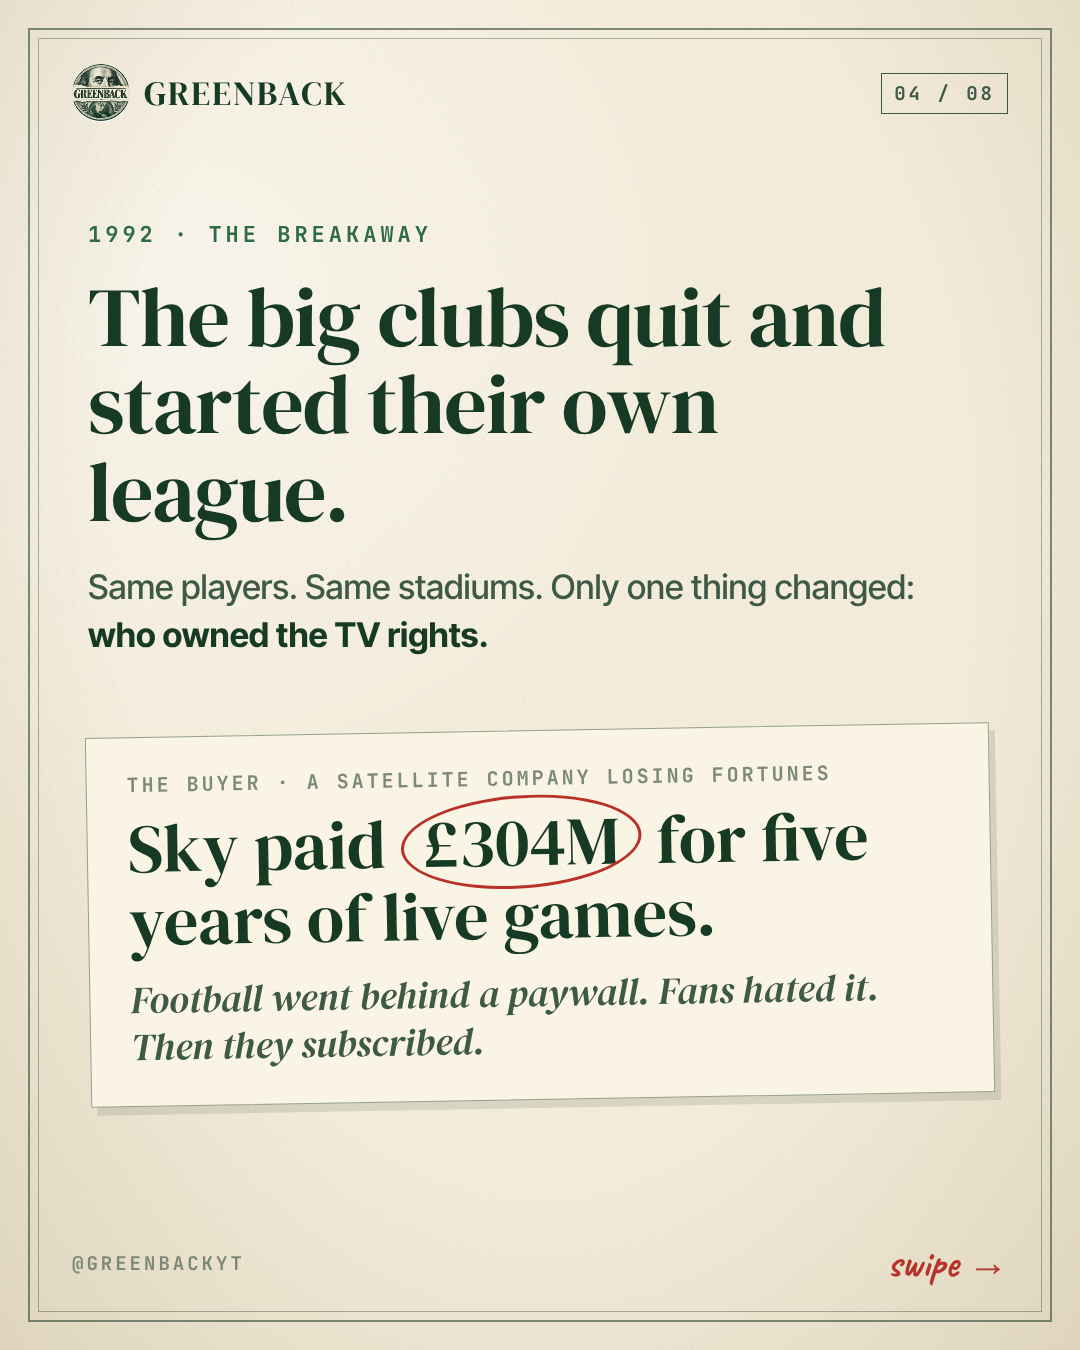
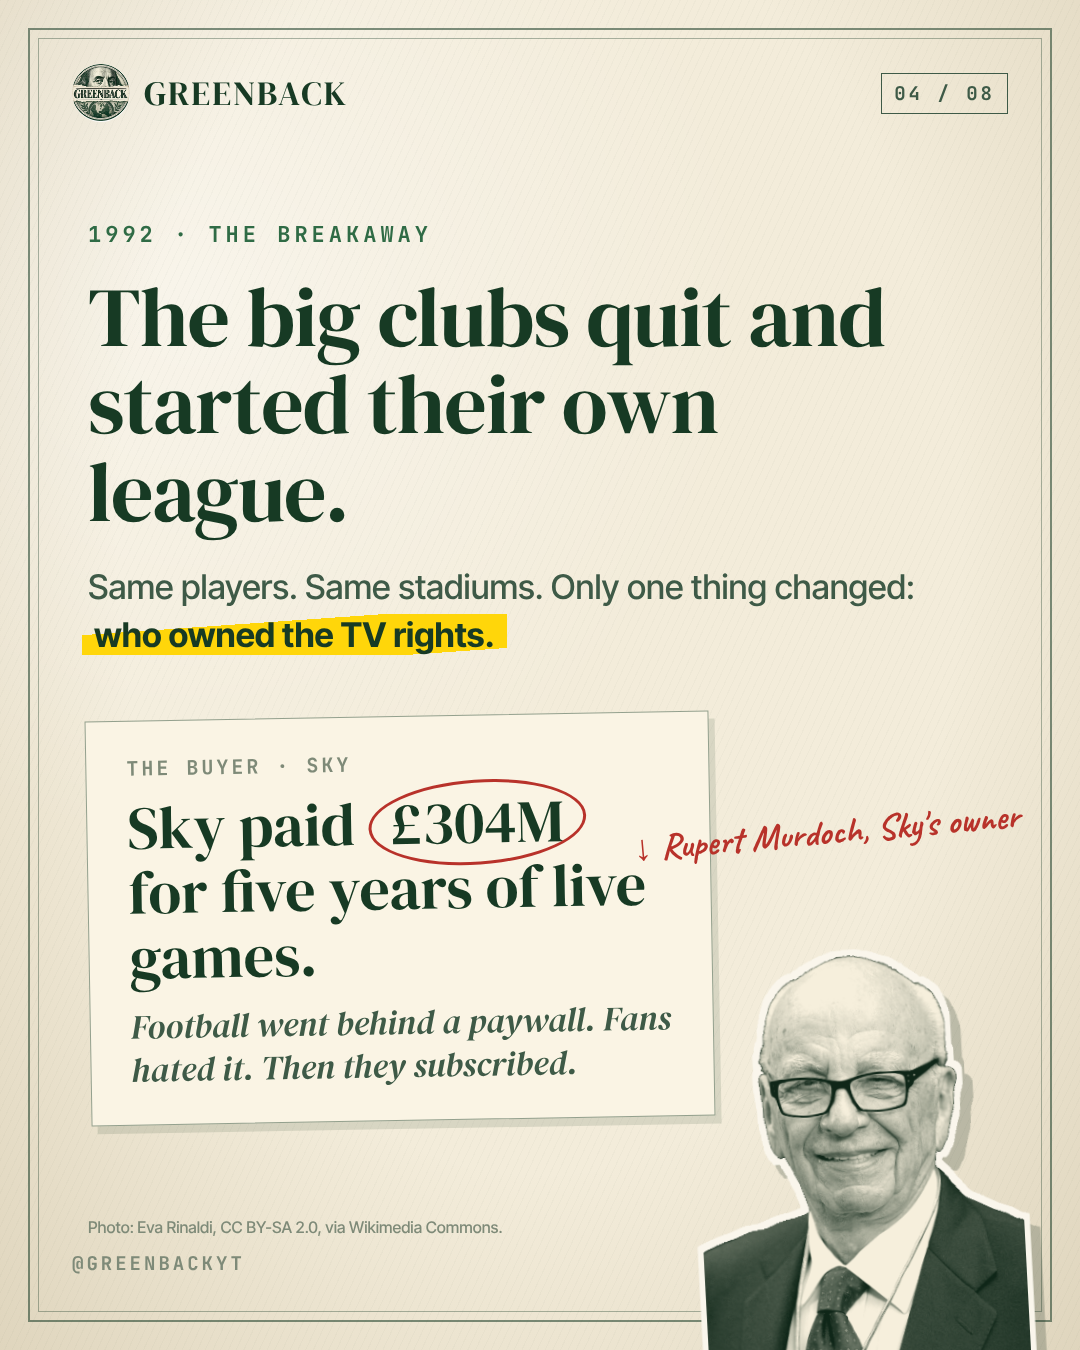
Greenback carousel 01: real photo cutouts, yellow/orange word highlights
Abramovich (slide 2) and Murdoch (slide 4) as duotone paper cutouts with
credits. Yellow highlighter and amber (#E8650A) accents on key words.

Claude-Session: https://claude.ai/code/session_013DisWTCKT6cGxKX9bxVydS

Changed region(s): [[0.0917, 0.5289, 0.9778, 1.0], [0.0611, 0.4356, 0.4889, 0.4978], [0.0917, 0.9022, 0.4583, 0.9333]]

diff --git a/premier-league-economics/instagram/carousel_01/carousel.html b/premier-league-economics/instagram/carousel_01/carousel.html
@@ -9,7 +9,7 @@
 @font-face{font-family:IT;src:url(fonts/inter-tight-latin-500-normal.woff2);font-weight:500}
 @font-face{font-family:MONO;src:url(fonts/jetbrains-mono-latin-700-normal.woff2);font-weight:700}
 @font-face{font-family:PEN;src:url(fonts/caveat-latin-700-normal.woff2);font-weight:700}
-:root{--parch:#F3ECDA;--parch2:#E8DFC6;--ink:#173A24;--ink2:#3E5A47;--mute:#7E8A78;--green:#2F6B45;
+:root{--yellow:#FFD60A;--orange:#E8650A;--parch:#F3ECDA;--parch2:#E8DFC6;--ink:#173A24;--ink2:#3E5A47;--mute:#7E8A78;--green:#2F6B45;
   --mint:#E1EED4;--red:#B8322A;--cream:#FAF4E4}
 *{box-sizing:border-box;margin:0;padding:0}
 body{background:#555;color:var(--ink)}
@@ -55,6 +55,10 @@ p{font:500 34px/1.42 IT;color:var(--ink2)}
 .circ{position:relative;display:inline-block;margin:0 22px}
 .circ::after{content:"";position:absolute;inset:-10px -22px;border:3.5px solid var(--red);border-radius:50%;transform:rotate(-3deg)}
 .under{background:linear-gradient(transparent 78%,rgba(184,50,42,.85) 78%,rgba(184,50,42,.85) 88%,transparent 88%)}
+.hy{background:linear-gradient(176deg,transparent 30%,var(--yellow) 30%,var(--yellow) 90%,transparent 90%);color:var(--ink);padding:0 12px;margin:0 -6px;box-decoration-break:clone;-webkit-box-decoration-break:clone}
+.or{color:var(--orange)}
+.cut{position:absolute!important;filter:drop-shadow(10px 14px 0 rgba(15,38,24,.22));z-index:3}
+.cap{position:absolute!important;z-index:4;font:700 36px/1 PEN;color:var(--red);transform:rotate(-5deg)}
 .note{background:var(--cream);border:1.5px solid rgba(23,58,36,.45);box-shadow:6px 8px 0 rgba(23,58,36,.12);padding:34px 40px}
 .label{font:700 20px MONO;letter-spacing:3px;color:var(--mute)}
 .num{font:400 118px/1 DS;letter-spacing:-2px}
@@ -71,9 +75,9 @@ p{font:500 34px/1.42 IT;color:var(--ink2)}
   <img src="greenback_logo.jpg" style="position:absolute;right:-170px;top:250px;width:620px;opacity:.07;border-radius:50%;filter:grayscale(1) brightness(2)">
   <div style="padding-top:290px">
     <div class="kicker">Follow the money · Premier League</div>
-    <h1 style="margin-top:30px">Most Premier League clubs <em class="under">lose money.</em></h1>
+    <h1 style="margin-top:30px">Most Premier League clubs <em><span class="hy">lose money.</span></em></h1>
     <div class="rule"><i></i></div>
-    <div style="font:400 64px/1.12 DS;font-style:italic;color:#e9e2cc;max-width:880px">So why is it the most valuable football league on Earth?</div>
+    <div style="font:400 64px/1.12 DS;font-style:italic;color:#e9e2cc;max-width:880px">So why is it the <span class="or">most valuable</span> football league on Earth?</div>
   </div>
   <div class="foot"><span>@GREENBACKYT</span><span class="swipe">follow the trail →</span></div>
 </section>
@@ -83,17 +87,18 @@ p{font:500 34px/1.42 IT;color:var(--ink2)}
   <div class="frame"></div>
   <div class="top"><div class="brand"><img src="greenback_logo.jpg">GREENBACK</div><div class="tag">02 / 08</div></div>
   <div style="padding-top:220px">
+    <img class="cut" src="cutouts/abramovich.png" style="right:56px;top:190px;width:320px;transform:rotate(3deg)"><div class="cap" style="right:90px;top:580px">Roman Abramovich</div>
     <div class="kicker">Exhibit A · March 2022</div>
-    <h2 style="margin-top:24px">The UK government froze Chelsea FC.</h2>
-    <p style="margin-top:28px;max-width:870px">Owner Roman Abramovich was sanctioned after Russia invaded Ukraine. No ticket sales, no shirt sales, no transfers. The club had to be sold, fast.</p>
+    <h2 style="margin-top:24px;max-width:560px;font-size:72px">The UK government <span class="hy">froze</span> Chelsea FC.</h2>
+    <p style="margin-top:24px;max-width:540px;font-size:31px">Its owner was sanctioned after Russia invaded Ukraine. No tickets, no shirts, no transfers. It had to be sold, fast.</p>
   </div>
-  <div style="display:flex;align-items:center;gap:30px;margin-top:70px">
+  <div style="display:flex;align-items:center;gap:30px;margin-top:56px">
     <div class="note" style="flex:1;text-align:center"><div class="label">BOUGHT · 2003</div><div class="num" style="margin-top:10px">£140M</div></div>
     <div style="font:400 80px DS">→</div>
     <div class="note" style="flex:1;text-align:center;background:var(--ink);color:var(--cream)"><div class="label" style="color:#9fd3ad">SOLD · 2022</div><div class="num" style="margin-top:10px">£2.5B</div></div>
   </div>
-  <div class="pen" style="margin:44px 0 0 560px;transform:rotate(-4deg)"><span class="circ">×18</span> &nbsp;in a forced sale!</div>
-  <div class="src">Sources: BBC, Reuters (May 2022). £2.5B purchase price inside a £4.25B total deal.</div>
+  <div class="pen" style="margin:30px 0 0 500px;transform:rotate(-4deg)"><span class="circ" style="color:var(--orange)">×18</span> &nbsp;in a forced sale!</div>
+  <div class="src">Sources: BBC, Reuters (May 2022). £2.5B purchase price inside a £4.25B total deal. Photo: Marina Lystseva, GFDL 1.2, via Wikimedia Commons.</div>
   <div class="foot"><span>@GREENBACKYT</span><span class="swipe">swipe →</span></div>
 </section>
 
@@ -103,13 +108,13 @@ p{font:500 34px/1.42 IT;color:var(--ink2)}
   <div class="top"><div class="brand"><img src="greenback_logo.jpg">GREENBACK</div><div class="tag">03 / 08</div></div>
   <div style="padding-top:220px">
     <div class="kicker">Rewind · the 1980s</div>
-    <h2 style="margin-top:24px">English football was nearly broke.</h2>
+    <h2 style="margin-top:24px">English football was <span class="hy">nearly broke.</span></h2>
     <p style="margin-top:28px;max-width:880px">Crowds were falling and stadiums were crumbling. After the Hillsborough disaster in 1989, every top-flight ground had to become all-seater. The clubs couldn't pay for it.</p>
   </div>
   <div class="torn" style="margin-top:80px">
     <div class="label" style="padding-left:88px">TV MONEY FOR THE ENTIRE TOP DIVISION · ITV, 1988</div>
     <div style="display:flex;align-items:baseline;gap:30px;padding-left:88px;margin-top:8px">
-      <div class="num">£11M</div><div style="font:500 30px IT;color:var(--ink2)">a season, shared by<br>every club.</div>
+      <div class="num" style="color:var(--orange)">£11M</div><div style="font:500 30px IT;color:var(--ink2)">a season, shared by<br>every club.</div>
     </div>
   </div>
   <div class="pen" style="margin-top:40px;color:#F08A7E;transform:rotate(-2deg)">Today one mid-table club gets ~10× that on its own.</div>
@@ -124,13 +129,16 @@ p{font:500 34px/1.42 IT;color:var(--ink2)}
   <div style="padding-top:220px">
     <div class="kicker">1992 · The breakaway</div>
     <h2 style="margin-top:24px">The big clubs quit and started their own league.</h2>
-    <p style="margin-top:28px;max-width:880px">Same players. Same stadiums. Only one thing changed: <b style="color:var(--ink)">who owned the TV rights.</b></p>
+    <p style="margin-top:28px;max-width:880px">Same players. Same stadiums. Only one thing changed: <b class="hy">who owned the TV rights.</b></p>
   </div>
-  <div class="note" style="margin-top:70px;transform:rotate(-1deg)">
-    <div class="label">THE BUYER · A SATELLITE COMPANY LOSING FORTUNES</div>
-    <div style="font:400 68px/1.08 DS;margin-top:14px">Sky paid <span class="circ">£304M</span> for five years of live games.</div>
-    <div style="font:italic 400 38px/1.25 DS;color:var(--ink2);margin-top:18px">Football went behind a paywall. Fans hated it. Then they subscribed.</div>
+  <div class="note" style="margin-top:56px;margin-right:280px;transform:rotate(-1deg)">
+    <div class="label">THE BUYER · SKY</div>
+    <div style="font:400 60px/1.08 DS;margin-top:14px">Sky paid <span class="circ">£304M</span> for five years of live games.</div>
+    <div style="font:italic 400 34px/1.25 DS;color:var(--ink2);margin-top:16px">Football went behind a paywall. Fans hated it. Then they subscribed.</div>
   </div>
+  <img class="cut" src="cutouts/murdoch.png" style="right:40px;bottom:-40px;width:360px;transform:rotate(-3deg)">
+  <div class="cap" style="right:60px;bottom:500px">↓ Rupert Murdoch, Sky's owner</div>
+  <div class="src" style="right:420px;bottom:112px;font-size:16px">Photo: Eva Rinaldi, CC BY-SA 2.0, via Wikimedia Commons.</div>
   <div class="foot"><span>@GREENBACKYT</span><span class="swipe">swipe →</span></div>
 </section>
 
@@ -144,7 +152,7 @@ p{font:500 34px/1.42 IT;color:var(--ink2)}
   </div>
   <div style="position:absolute;left:88px;right:88px;bottom:200px;height:560px;display:flex;align-items:flex-end;gap:34px;border-bottom:2px solid var(--ink)">
     <div style="width:220px;text-align:center"><div style="font:400 46px DS;margin-bottom:12px">£304M</div><div style="height:30px;background:var(--green)"></div></div>
-    <div style="width:220px;text-align:center"><div style="font:400 46px DS;margin-bottom:12px">£6.7B</div><div style="height:430px;background:var(--ink);position:relative"><div class="pen" style="position:absolute;left:0;right:0;top:20px;color:#F08A7E;font-size:64px">×22</div></div></div>
+    <div style="width:220px;text-align:center"><div style="font:400 46px DS;margin-bottom:12px">£6.7B</div><div style="height:430px;background:var(--ink);position:relative"><div class="pen" style="position:absolute;left:0;right:0;top:20px;color:var(--yellow);font-size:64px">×22</div></div></div>
     <div style="flex:1;padding-bottom:70px;font:italic 400 44px/1.2 DS;color:var(--ink2)">UK rights only. The money from overseas is now even bigger.</div>
   </div>
   <div style="position:absolute;left:88px;bottom:160px;display:flex;gap:34px" class="label"><span style="width:220px;text-align:center">1992–97</span><span style="width:220px;text-align:center">2025–29</span></div>
@@ -158,8 +166,8 @@ p{font:500 34px/1.42 IT;color:var(--ink2)}
   <div class="top"><div class="brand"><img src="greenback_logo.jpg">GREENBACK</div><div class="tag">06 / 08</div></div>
   <div style="padding-top:220px">
     <div class="kicker">The world is watching</div>
-    <h2 style="margin-top:24px">3pm in London is 10am in New York.</h2>
-    <p style="margin-top:28px;max-width:880px">For 2022–25, foreign broadcasters paid more for the Premier League than British ones did. That had never happened before.</p>
+    <h2 style="margin-top:24px">3pm in London is <span class="hy">10am in New York.</span></h2>
+    <p style="margin-top:28px;max-width:880px">For 2022–25, foreign broadcasters paid <span class="or" style="font-weight:700">more</span> for the Premier League than British ones did. That had never happened before.</p>
   </div>
   <div class="torn" style="margin-top:90px">
     <div style="padding-left:88px;display:flex;align-items:center;gap:36px">
@@ -176,14 +184,14 @@ p{font:500 34px/1.42 IT;color:var(--ink2)}
   <div class="top"><div class="brand"><img src="greenback_logo.jpg">GREENBACK</div><div class="tag">07 / 08</div></div>
   <div style="padding-top:220px">
     <div class="kicker">The real secret</div>
-    <h2 style="margin-top:24px">It shares the money <em class="under">almost equally.</em></h2>
+    <h2 style="margin-top:24px">It shares the money <em><span class="hy">almost equally.</span></em></h2>
     <p style="margin-top:28px;max-width:880px">All 20 clubs sell their TV rights as one package. So even the worst team gets rich, and every match stays worth watching.</p>
   </div>
   <div style="display:flex;gap:30px;margin-top:70px">
     <div class="note" style="flex:1"><div class="label">CHAMPIONS</div><div class="num" style="color:var(--green);margin-top:10px">£175M</div></div>
     <div class="note" style="flex:1"><div class="label">FINISHED LAST</div><div class="num" style="margin-top:10px">£110M</div></div>
   </div>
-  <div class="pen" style="margin:34px 0 0 380px;transform:rotate(-3deg)">↑ last place still banks £110M</div>
+  <div class="pen" style="margin:34px 0 0 380px;transform:rotate(-3deg)">↑ last place still banks <span class="or">£110M</span></div>
   <div class="src">Approximate central payments from the league, 2023–24 season.</div>
   <div class="foot"><span>@GREENBACKYT</span><span class="swipe">swipe →</span></div>
 </section>
@@ -195,7 +203,7 @@ p{font:500 34px/1.42 IT;color:var(--ink2)}
   <div style="padding-top:230px;text-align:center">
     <div style="font:italic 400 70px/1.1 DS;color:#e9e2cc">The Premier League wasn't a football idea.</div>
     <div class="rule" style="margin:40px 120px"><i></i></div>
-    <h1 style="font-size:120px">It was a <span class="under">TV idea.</span></h1>
+    <h1 style="font-size:120px">It was a <span class="hy">TV idea.</span></h1>
   </div>
   <div style="position:absolute;left:88px;right:88px;bottom:150px;display:flex;align-items:center;gap:36px">
     <img src="greenback_logo.jpg" style="width:200px;height:200px;border-radius:50%;box-shadow:0 0 0 6px rgba(250,244,228,.15)">

diff --git a/premier-league-economics/instagram/carousel_01/CAPTION.md b/premier-league-economics/instagram/carousel_01/CAPTION.md
@@ -12,3 +12,9 @@ Full episode on YouTube: link in bio.
 #PremierLeague #FootballBusiness #SportsBusiness #Chelsea #MoneyExplained #Economics #FootballFinance #Explained #Greenback
 
 **First comment (to drive replies):** Which club do you think is most overpriced right now? 👇
+
+## Photo credits (required by the licences, keep them on the slides)
+- Roman Abramovich: Marina Lystseva, GFDL 1.2, via Wikimedia Commons (slide 2)
+- Rupert Murdoch: Eva Rinaldi, CC BY-SA 2.0, via Wikimedia Commons (slide 4)
+
+Cutouts made with rembg + BiRefNet (MIT licence), duotone banknote-green, white paper edge.
